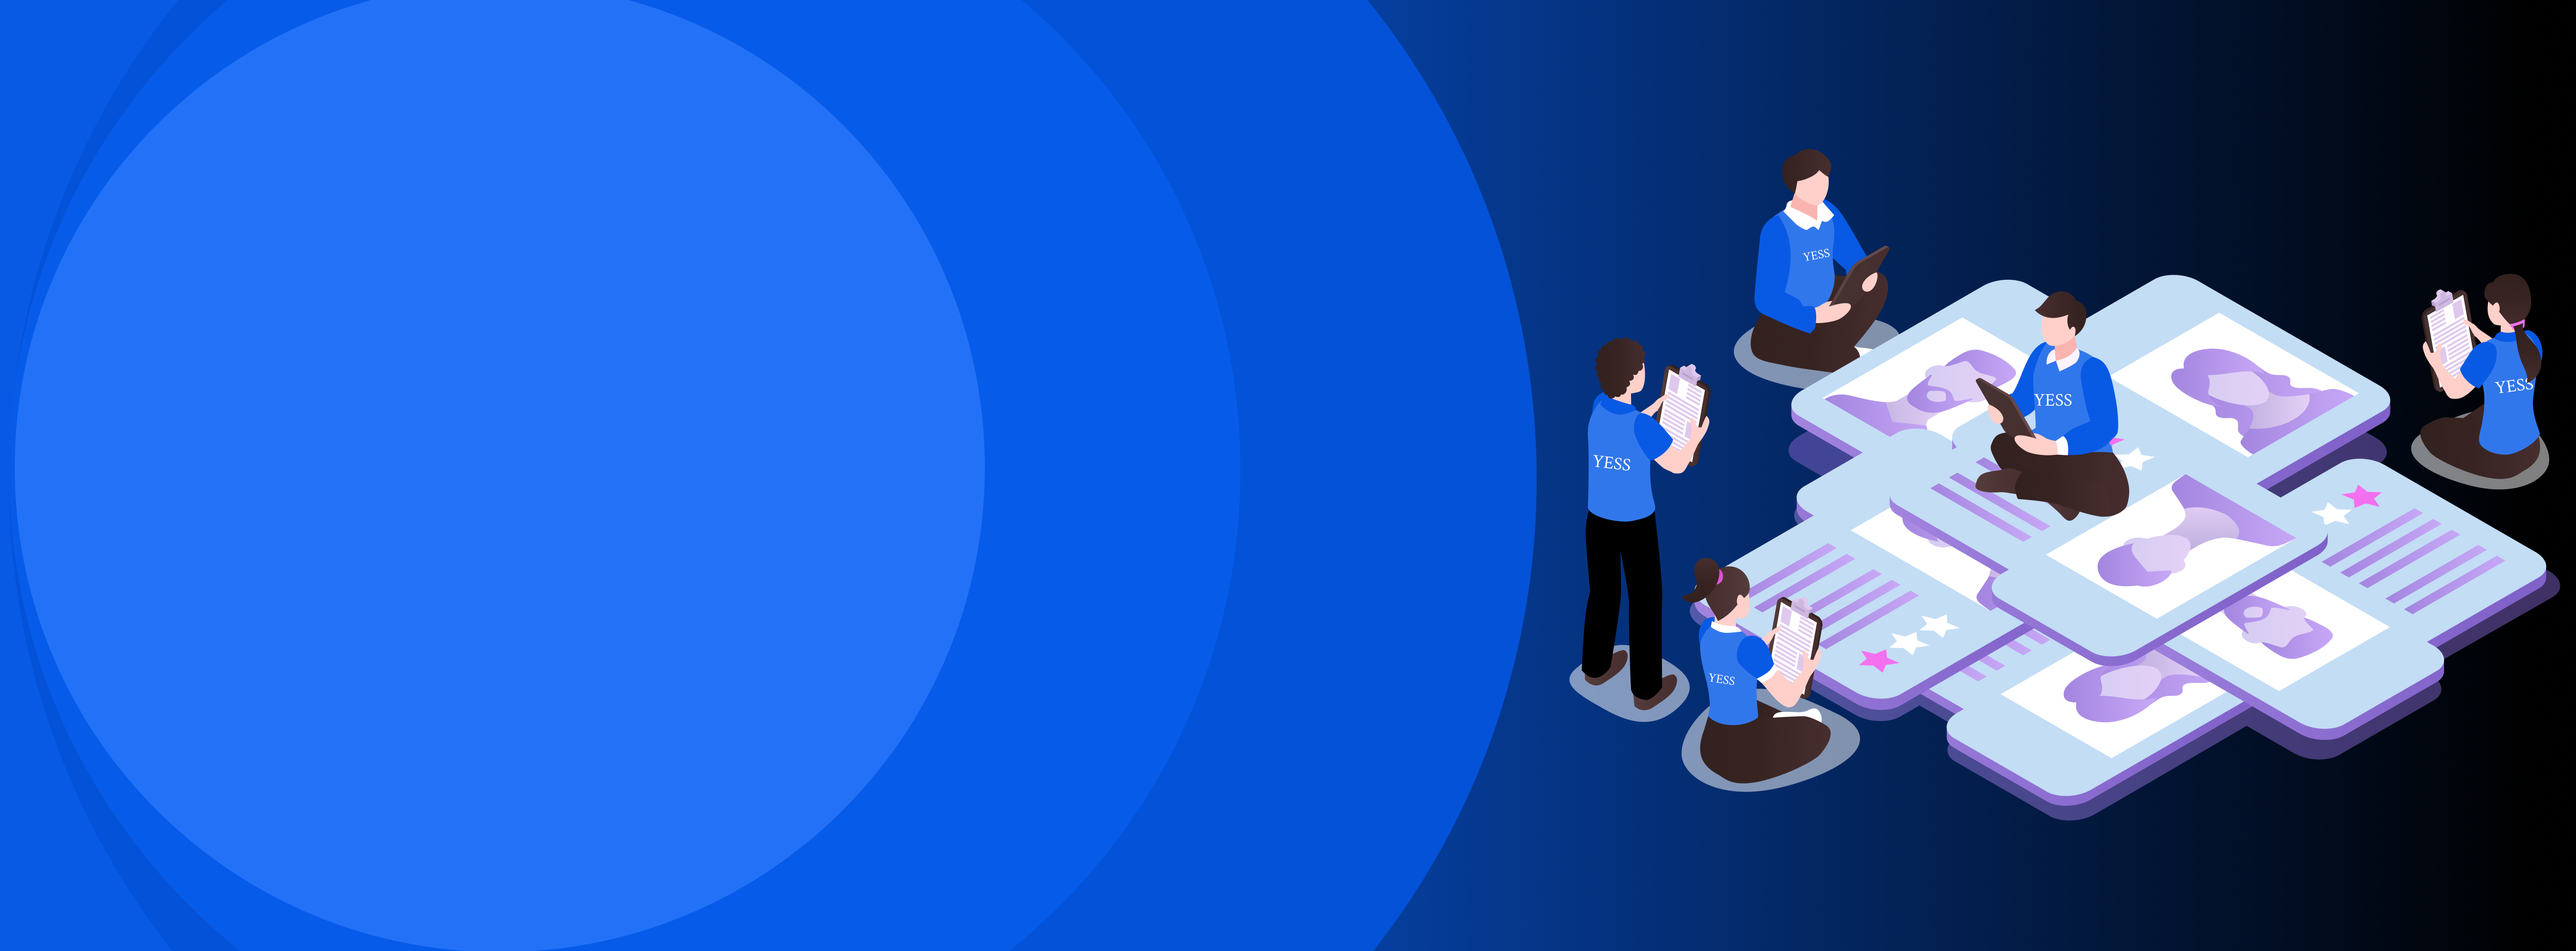
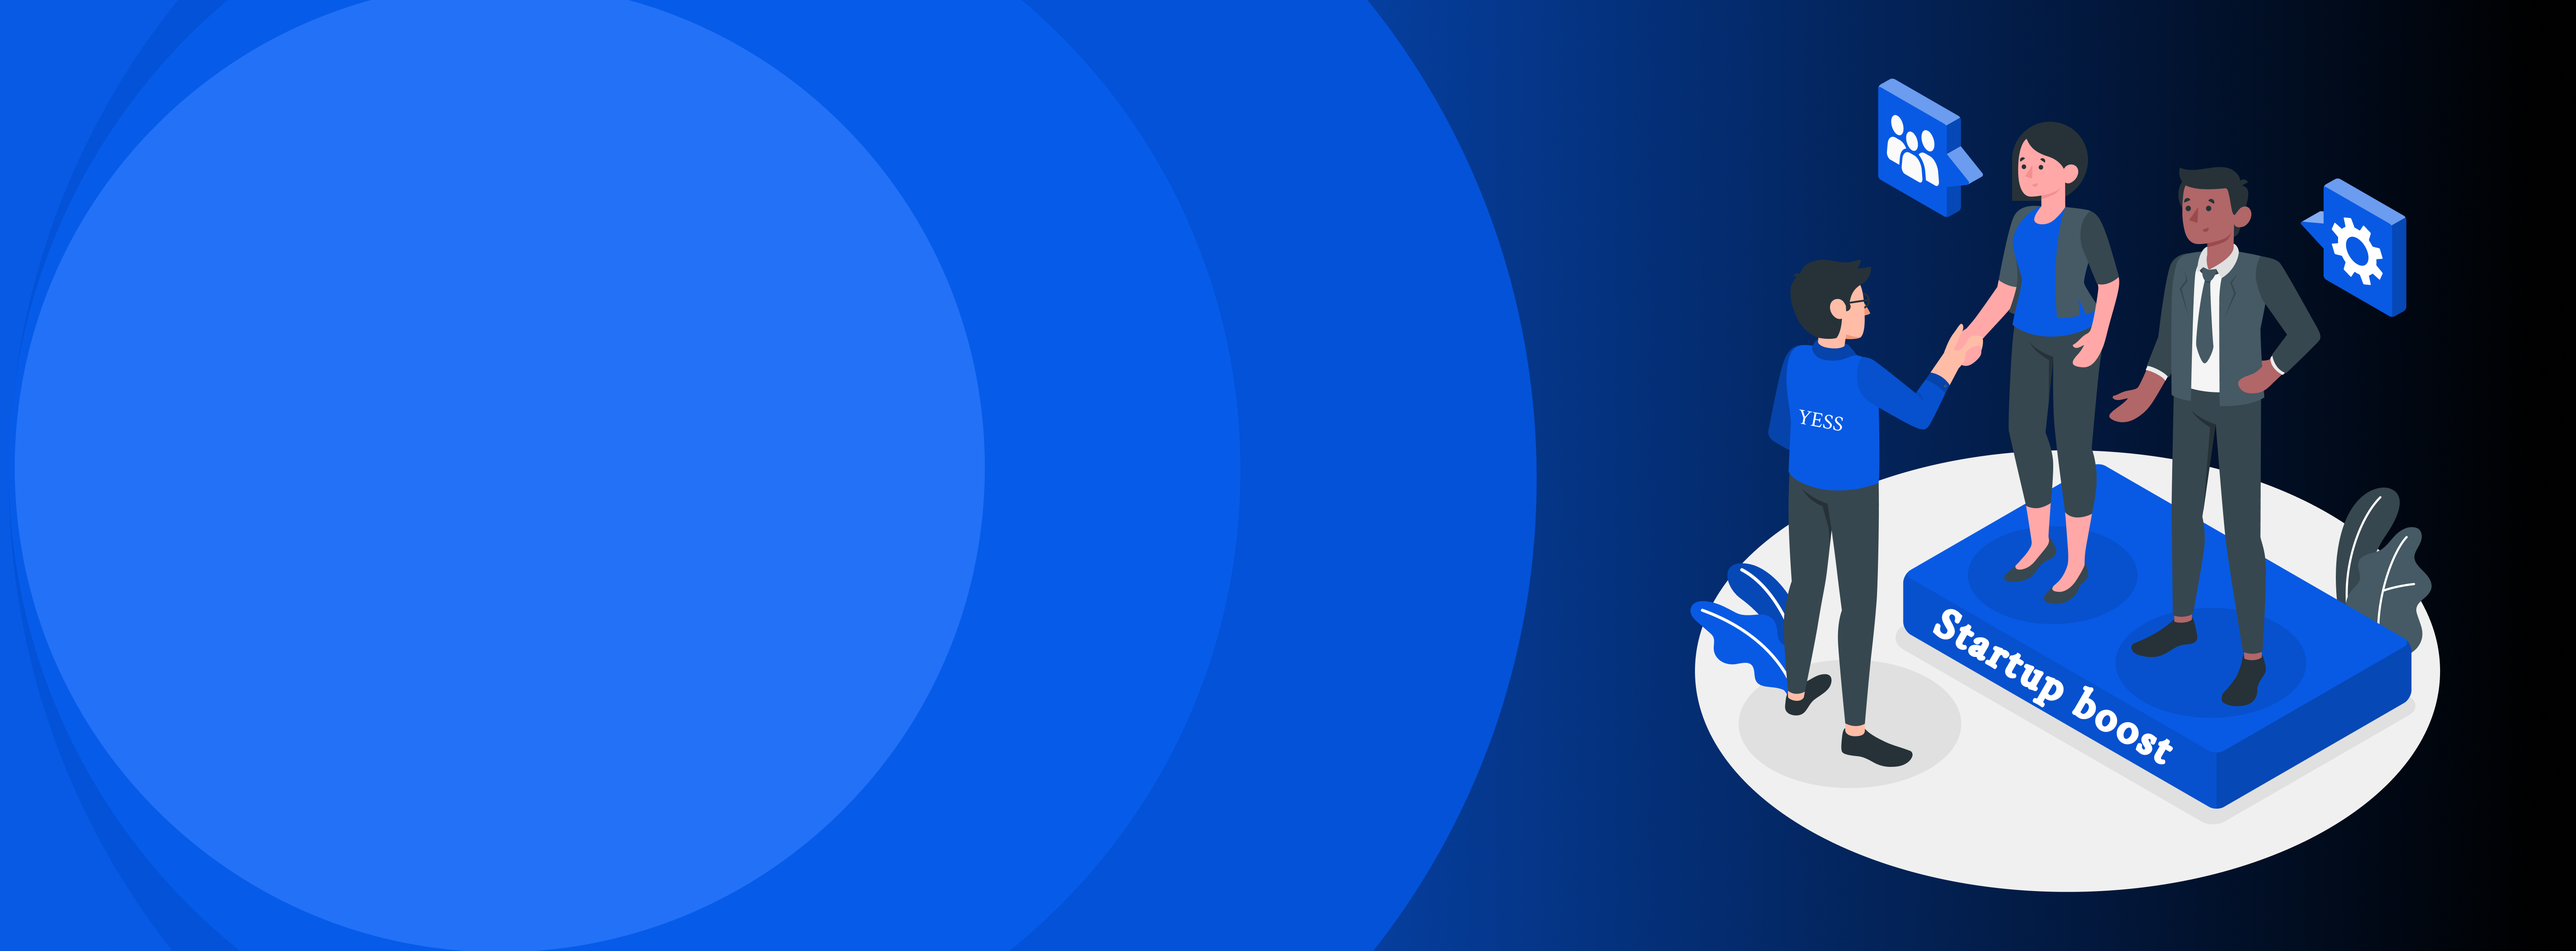
update the job section

Changed region(s): [[0.5938, 0.093, 1.0, 0.9615]]

diff --git a/app/mek/page.js b/app/mek/page.js
@@ -1,0 +1,84 @@
+import Image from 'next/image';
+import Link from 'next/link';
+import React from 'react';
+import { CgMail, CgTime } from 'react-icons/cg';
+import footer from '../assets/fikir.png';
+import helder from '../assets/helder.png';
+import { FaMapMarkerAlt } from "react-icons/fa";
+import { FaAddressBook } from 'react-icons/fa';
+
+
+const Fikir = () => {
+  return (
+    <div className="story">
+      <div className="text-black">
+        <Image
+          src={footer}
+          alt="startup one"
+          className="w-full"
+          width={800}
+          height={500}
+        />
+        <div className="flex justify-start items-center pt-10 px-2 sm:px-4 md:px-10 lg:px-20 gap-6 flex-wrap pb-10">
+          <div className="px-2 sm:px-4 md:px-10 lg:px-20">
+            <h1 className="tes font-bold flex flex-wrap">
+            Fikir charity for children and mothers
+            </h1>
+          </div>
+        </div>
+        <div className="px-2 sm:px-4 md:px-10 lg:px-20">
+          <p className='text-[20px] lg:text-[32px]'>
+          During the visit, the children at Fikir Charity expressed their gratitude and joy, warmly inviting the Yess Ethiopia team to engage with them. The genuine and sweet expressions of the children resonated with the core values of both organizations – a shared commitment to uplifting communities, especially the most vulnerable members. The interaction between Yess Ethiopia and Fikir Charity reflects the power of solidarity in making a meaningful impact on the lives of children and mothers.<br/><br/>
+Yess Ethiopia continues to foster partnerships with organizations like Fikir Children and Mothers Charity to collectively address societal challenges and contribute to the well-being of communities. This collaborative spirit strengthens the bonds of compassion and reinforces the belief that positive change is achievable through shared efforts and genuine connections.
+
+
+          </p>
+        </div>
+        <div className="flex justify-between items-start px-4 sm:px-8 md:px-16 lg:px-32 py-10">
+          <div className="ml-2 md:ml-4 lg:ml-10 py-4 lg:py-10 flex flex-col items-center justify-start gap-3 flex-start  pop font-medium lg:w-1/5">
+            <div className="flex justify-start items-start lg:-ml-6 text-start">
+              <CgMail size={30}  className="font-normal"/>
+              <p className="pl-5 pop lg:text-[20px]">Elders above 65</p>
+            </div>{' '}
+            <div className="flex justify-start items-start lg:ml-3 text-start">
+              <FaMapMarkerAlt size={30} className='font-normal'/>
+              <p className="pl-5 pop lg:text-[20px]">Mekodonya, 22 <br/>
+Addis Ababa, Ethiopia</p>
+            </div>
+            <div className="flex justify-start items-start lg:-ml-36 test-start">
+              <CgTime size={30} className='font-normal'/>
+              <p className="pl-5 pop lg:text-[20px]">3hr</p>
+            </div>
+          </div>
+          <div className="hidden lg:block lg:w-1/5"></div>
+          <div className="lg:w-2/5 px-2 sm:px-6 md:px-12 lg:px-32">    
+            <form></form>
+            <div>
+                <label className="pop font-medium text-gray-700 py-3 text-lg lg:text-[30px] border-gray-700 mb-3">Full Name</label>
+                <input type="text" placeholder='John Doe' className="px-8 w-full py-3 rounded placeholder:text-sm"/>
+            </div>
+            <div className="pt-6">
+                <label className="pop font-medium text-gray-700 py-3 mb-3 text-lg lg:text-[30px] border-gray-700 ">Phone Number</label>
+                <input type="password" placeholder='***********' className="px-8 w-full py-3 rounded placeholder:text-sm"/>
+            </div>
+            <div className="pt-6">
+                <label className="pop font-medium text-gray-700 py-3 mb-3 text-lg lg:text-[30px] border-gray-700 ">Why are you interested</label>
+                <textarea cols={30} rows={3}  className="px-8 w-full py-3 rounded placeholder:text-sm"/>
+            </div>
+            <div className="pt-6 flex justify-center items-center">
+                {/* <button type="submit">Volunteer Now</button> */}
+                <p
+              className='bg-[#0041ff] pop hover:bg-blue-800 hover:py-3 hover:px-10 hover:text-[20px] lg:hover:px-8 lg:hover:py-2  py-2 px-8 text-[16px] lg:text-[20px] rounded text-white'
+            >
+              Volunteer Now
+            </p>
+            </div>
+          </div>
+          <div className="hidden lg:block lg:w-1/5"></div>
+        </div>
+      </div>
+    </div>
+  );
+};
+
+export default Fikir;

diff --git a/app/components/job/Seeking.jsx b/app/components/job/Seeking.jsx
@@ -59,9 +59,9 @@ const Seeking = () => {
     },
   ];
   return (
-    <div className="story bg-cover bg-no-repeat text-black">
+    <div className="story bg-cover bg-no-repeat text-black overflow-x-hidden">
       <div className="grid grid-cols-1 md:grid-cols-2 lg:grid-cols-4 py-10 px-2 sm:px-6 md:px-12 lg:px-44 xl:px-60">
-        <form className="lg:col-span-2">
+        <form className="lg:col-span-2 md:ml-6">
           <label
             htmlFor="default-search"
             className="mb-2 text-sm font-medium text-gray-900 sr-only dark:text-white"
@@ -90,7 +90,7 @@ const Seeking = () => {
               type="search"
               id="default-search"
               className="block w-full p-4 ps-10 text-sm text-gray-900 border border-gray-300 rounded-lg bg-gray-50 focus:ring-blue-500 focus:border-blue-500 dark:bg-gray-700 dark:border-gray-600 dark:placeholder-gray-400 dark:text-white dark:focus:ring-blue-500 dark:focus:border-blue-500"
-              placeholder="Search Mockups, Logos..."
+              placeholder="Search Jobs..."
               required
             />
             <button
@@ -121,15 +121,21 @@ const Seeking = () => {
           </div>
         </div>
       </div>
-      <div className="bg-[#0041ff] mx-[4px] lg:mx-20 rounded-xl lg:py-10 text-white">
-        <div className="flex gap-4 justify-start lg:mr-12 mr-4 pb-3 pl-[5px] lg:pl-10 items-center">
-          <GoQuestion size={70} />
-          <p className="pop text-[30px]">Seeking for a job</p>
+      <div className=" jo w-screen h-full overflow-x-hidden bg-cover bg-no-repeat">
+        <div className="grid grid-cols-1 md:grid-cols-3 px-2 sm:px-6 md:px-12 lg:px-32 lg:mr-32 gap-10 py-20">
+          <div className="md:col-span-2 flex flex-col px-2 md:px-4 lg:px-6">
+            <div className="flex justify-start items-center gap-5 md:pl-10 lg:pl-20 flex-wrap ">
+              <GoQuestion size={70} className='text-white '/>
+              <p className="text-white tes text-center py-6 text-[20px] md:text-[30px] lg:text-[40px] pop">Seeking for a Job</p>
+            </div>
+            <p className="text-white text-center py-2 text-[20px] md:text-[30px] lg:text-[40px] pop">
+              We empower individuals on their journey toward securing meaningful
+              employment, fostering economic independence and contributing to
+              the overall development of the community.
+            </p>
+          </div>
+          <div className="sm:py-24 lg:py-0  ml-2 sm:ml-6 md:ml-12 lg:ml-32"></div>
         </div>
-        <p className="pop text-[30px] lg:text-[42px] font-light text-center mx-[6px] lg:mx-10 px-[10px] sm:px-[30px] md:px-[50px] lg:px-[70px] text-gray-50">
-          Explore your scholarship journey with our guidance app. Let us guide
-          through the process!
-        </p>
       </div>
       <div>
         <div className="h-full rounded-box">

diff --git a/app/globals.css b/app/globals.css
@@ -91,6 +91,9 @@ body, h1, li, p{
 .foot{
   background-image: url('../app/assets/footer.jpg');
 }
+.jo{
+  background-image: url('../app/assets/jo.png');
+}
 .faq{
   background-image: url('../app/assets/faq.jpg');
 }
